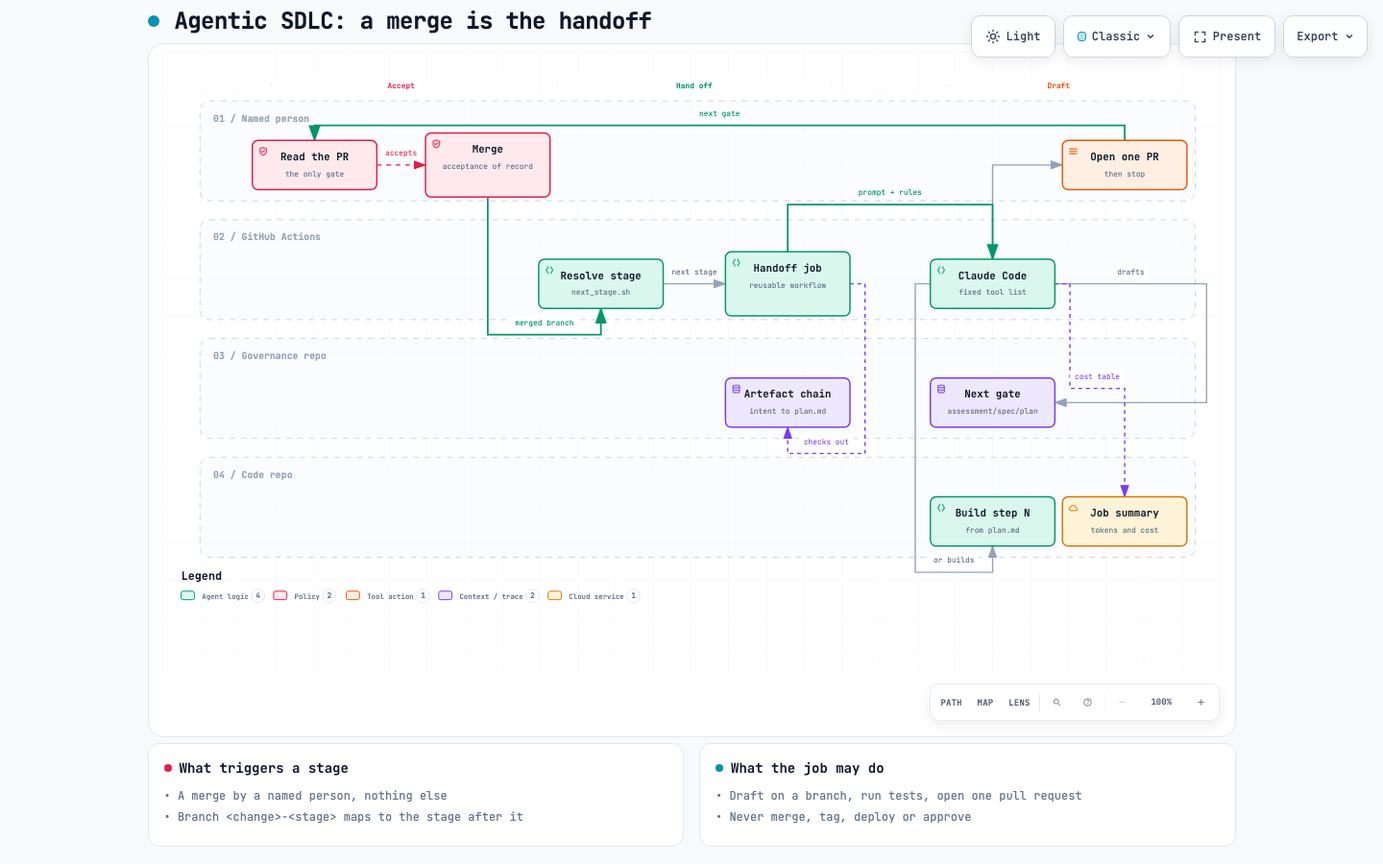
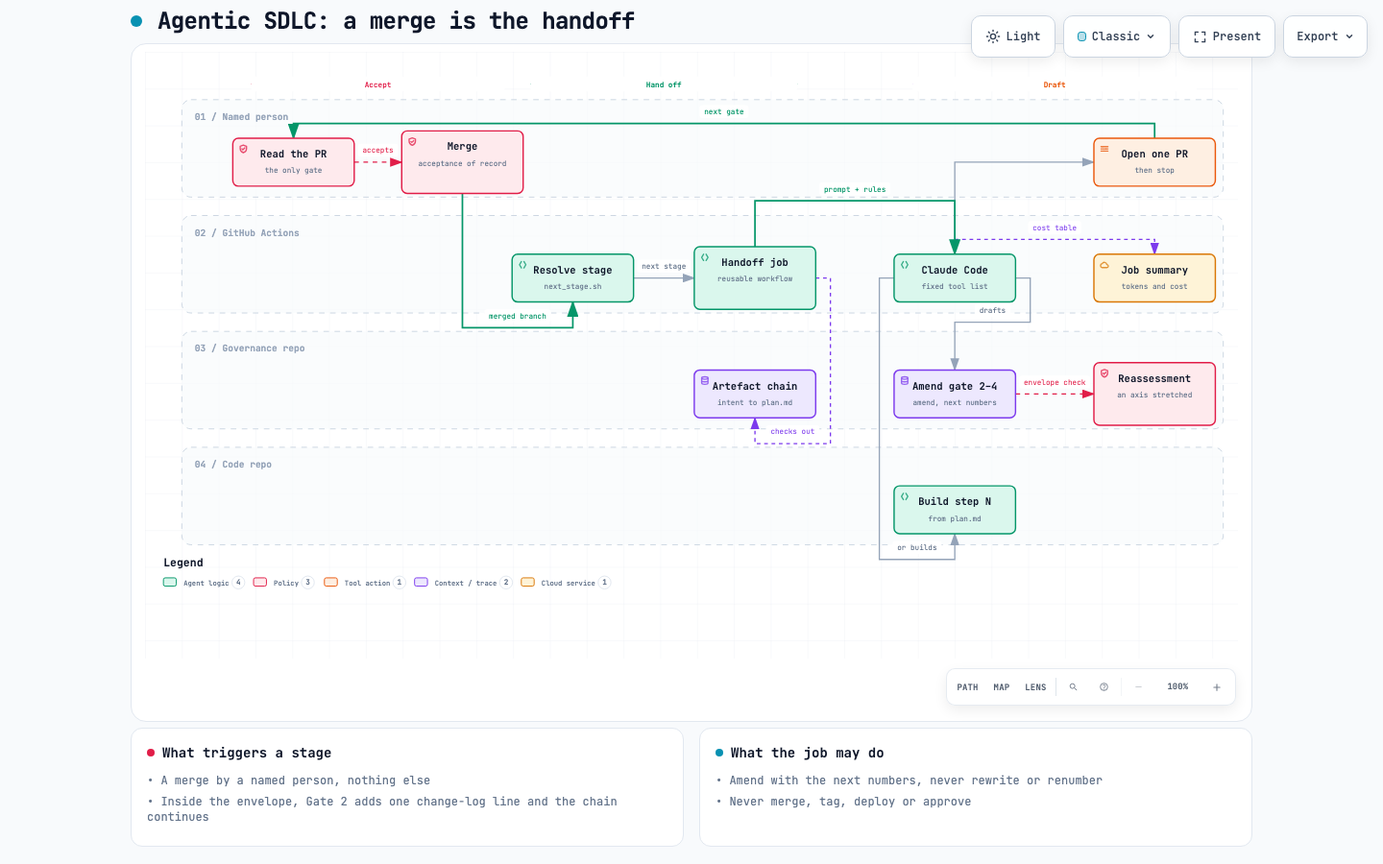
Diagram: amend not rewrite, and the reassessment branch at Gate 2
Claude-Session: https://claude.ai/code/session_01CV7KfttZPYsNyyskFMYeU7

diff --git a/docs/handoff.html b/docs/handoff.html
@@ -5004,7 +5004,7 @@
     <!-- Main Diagram -->
     <div class="diagram-container" data-detail-level="read"
          data-preset-badge-editorial-plate="ARCHIFY / PLATE 04">
-      <svg viewBox="0 0 1123 660" role="img" lang="en" aria-labelledby="archify-diagram-title archify-diagram-description" data-preset="classic" data-quality-profile="showcase">
+      <svg viewBox="0 0 1188 660" role="img" lang="en" aria-labelledby="archify-diagram-title archify-diagram-description" data-preset="classic" data-quality-profile="showcase">
         <title id="archify-diagram-title">Agentic SDLC: a merge is the handoff</title>
         <desc id="archify-diagram-description">A workflow diagram generated by Archify.</desc>
         <!-- Definitions -->
@@ -5030,16 +5030,16 @@
         <rect width="100%" height="100%" fill="url(#grid)" />
 
         <!-- Swimlanes -->
-        <rect data-graph-role="structural-frame" data-composition-frame-kind="lane" data-composition-frame-id="lane-0" x="40" y="52" width="1055" height="106" rx="10" class="c-lane" stroke-width="1"/>
+        <rect data-graph-role="structural-frame" data-composition-frame-kind="lane" data-composition-frame-id="lane-0" x="40" y="52" width="1132" height="106" rx="10" class="c-lane" stroke-width="1"/>
         <text x="54" y="74" class="t-dim" font-size="10" font-weight="600">01 / Named person</text>
 
-        <rect data-graph-role="structural-frame" data-composition-frame-kind="lane" data-composition-frame-id="lane-1" x="40" y="178" width="1055" height="106" rx="10" class="c-lane" stroke-width="1"/>
+        <rect data-graph-role="structural-frame" data-composition-frame-kind="lane" data-composition-frame-id="lane-1" x="40" y="178" width="1132" height="106" rx="10" class="c-lane" stroke-width="1"/>
         <text x="54" y="200" class="t-dim" font-size="10" font-weight="600">02 / GitHub Actions</text>
 
-        <rect data-graph-role="structural-frame" data-composition-frame-kind="lane" data-composition-frame-id="lane-2" x="40" y="304" width="1055" height="106" rx="10" class="c-lane" stroke-width="1"/>
+        <rect data-graph-role="structural-frame" data-composition-frame-kind="lane" data-composition-frame-id="lane-2" x="40" y="304" width="1132" height="106" rx="10" class="c-lane" stroke-width="1"/>
         <text x="54" y="326" class="t-dim" font-size="10" font-weight="600">03 / Governance repo</text>
 
-        <rect data-graph-role="structural-frame" data-composition-frame-kind="lane" data-composition-frame-id="lane-3" x="40" y="430" width="1055" height="106" rx="10" class="c-lane" stroke-width="1"/>
+        <rect data-graph-role="structural-frame" data-composition-frame-kind="lane" data-composition-frame-id="lane-3" x="40" y="430" width="1132" height="106" rx="10" class="c-lane" stroke-width="1"/>
         <text x="54" y="452" class="t-dim" font-size="10" font-weight="600">04 / Code repo</text>
 
         <!-- Phase headers -->
@@ -5049,24 +5049,25 @@
         <line x1="419" y1="35" x2="709" y2="35" class="a-emphasis" stroke-width="1.1"/>
         <rect x="419" y="27" width="290" height="16" rx="4" class="c-mask"/>
         <text x="564" y="39" class="t-backend" font-size="8" font-weight="600" text-anchor="middle">Hand off</text>
-        <line x1="834.1999999999998" y1="35" x2="1066.1999999999998" y2="35" class="a-dashed" stroke-width="1.1"/>
-        <rect x="834.1999999999998" y="27" width="231.9999999999999" height="16" rx="4" class="c-mask"/>
-        <text x="950.1999999999998" y="39" class="t-messagebus" font-size="8" font-weight="600" text-anchor="middle">Draft</text>
+        <line x1="834.1999999999998" y1="35" x2="1143.4" y2="35" class="a-dashed" stroke-width="1.1"/>
+        <rect x="834.1999999999998" y="27" width="309.20000000000016" height="16" rx="4" class="c-mask"/>
+        <text x="988.8" y="39" class="t-messagebus" font-size="8" font-weight="600" text-anchor="middle">Draft</text>
 
         <!-- Workflow groups -->
 
 
         <!-- Edge paths -->
         <path data-edge-from="claude" data-edge-to="build" data-edge-label="or builds" data-edge-key="0" data-edge-id="claude-build" data-composition-points="814.1999999999999,246;798.1999999999999,246;798.1999999999999,552;880.1999999999999,552;880.1999999999999,524" d="M 814.1999999999999 246 L 798.1999999999999 246 L 798.1999999999999 552 L 880.1999999999999 552 L 880.1999999999999 524" class="a-default" stroke-width="1.4" marker-end="url(#arrowhead)"/>
-        <path data-edge-from="claude" data-edge-to="gate" data-edge-label="drafts" data-edge-key="1" data-edge-id="claude-gate" data-composition-points="946.1999999999999,246;1107,246;1107,372;946.1999999999999,372" d="M 946.1999999999999 246 L 1107 246 L 1107 372 L 946.1999999999999 372" class="a-default" stroke-width="1.4" marker-end="url(#arrowhead)"/>
-        <path data-edge-from="claude" data-edge-to="pr" data-edge-key="2" data-edge-id="claude-pr" data-composition-points="880.1999999999999,220;880.1999999999999,120;954.1999999999999,120" d="M 880.1999999999999 220 L 880.1999999999999 120 L 954.1999999999999 120" class="a-default" stroke-width="1.4" marker-end="url(#arrowhead)"/>
-        <path data-edge-from="claude" data-edge-to="summary" data-edge-label="cost table" data-edge-key="3" data-edge-id="claude-summary" data-composition-points="946.1999999999999,246;962.1999999999999,246;962.1999999999999,357;1020.1999999999999,357;1020.1999999999999,472" d="M 946.1999999999999 246 L 962.1999999999999 246 L 962.1999999999999 357 L 1020.1999999999999 357 L 1020.1999999999999 472" class="a-dashed" stroke-width="1.4" marker-end="url(#arrowhead-dashed)"/>
-        <path data-edge-from="handoff" data-edge-to="chain" data-edge-label="checks out" data-edge-key="4" data-edge-id="handoff-chain" data-composition-points="729,246;745,246;745,426;663,426;663,398" d="M 729 246 L 745 246 L 745 426 L 663 426 L 663 398" class="a-dashed" stroke-width="1.4" marker-end="url(#arrowhead-dashed)"/>
-        <path data-edge-from="handoff" data-edge-to="claude" data-edge-label="prompt + rules" data-edge-key="5" data-edge-id="handoff-claude" data-composition-points="663,212;663,162;880.1999999999999,162;880.1999999999999,220" d="M 663 212 L 663 162 L 880.1999999999999 162 L 880.1999999999999 220" class="a-emphasis" stroke-width="1.8" marker-end="url(#arrowhead-emphasis)"/>
-        <path data-edge-from="merge" data-edge-to="resolve" data-edge-label="merged branch" data-edge-key="6" data-edge-id="merge-resolve" data-composition-points="345,154;345,300;465,300;465,272" d="M 345 154 L 345 300 L 465 300 L 465 272" class="a-emphasis" stroke-width="1.8" marker-end="url(#arrowhead-emphasis)"/>
-        <path data-edge-from="pr" data-edge-to="read" data-edge-label="next gate" data-edge-key="7" data-edge-id="pr-read" data-composition-points="1020.1999999999999,94;1020.1999999999999,78;161.4,78;161.4,94" d="M 1020.1999999999999 94 L 1020.1999999999999 78 L 161.4 78 L 161.4 94" class="a-emphasis" stroke-width="1.8" marker-end="url(#arrowhead-emphasis)"/>
-        <path data-edge-from="read" data-edge-to="merge" data-edge-label="accepts" data-edge-key="8" data-edge-id="read-merge" data-composition-points="227.4,120;279,120" d="M 227.4 120 L 279 120" class="a-security" stroke-width="1.4" marker-end="url(#arrowhead-security)"/>
-        <path data-edge-from="resolve" data-edge-to="handoff" data-edge-label="next stage" data-edge-key="9" data-edge-id="resolve-handoff" data-composition-points="531,246;597,246" d="M 531 246 L 597 246" class="a-default" stroke-width="1.4" marker-end="url(#arrowhead)"/>
+        <path data-edge-from="claude" data-edge-to="gate" data-edge-label="drafts" data-edge-key="1" data-edge-id="claude-gate" data-composition-points="946.1999999999999,246;962.1999999999999,246;962.1999999999999,294;880.1999999999999,294;880.1999999999999,346" d="M 946.1999999999999 246 L 962.1999999999999 246 L 962.1999999999999 294 L 880.1999999999999 294 L 880.1999999999999 346" class="a-default" stroke-width="1.4" marker-end="url(#arrowhead)"/>
+        <path data-edge-from="claude" data-edge-to="pr" data-edge-key="2" data-edge-id="claude-pr" data-composition-points="880.1999999999999,220;880.1999999999999,120;1031.4,120" d="M 880.1999999999999 220 L 880.1999999999999 120 L 1031.4 120" class="a-default" stroke-width="1.4" marker-end="url(#arrowhead)"/>
+        <path data-edge-from="claude" data-edge-to="summary" data-edge-label="cost table" data-edge-key="3" data-edge-id="claude-summary" data-composition-points="880.1999999999999,220;880.1999999999999,204;1097.4,204;1097.4,220" d="M 880.1999999999999 220 L 880.1999999999999 204 L 1097.4 204 L 1097.4 220" class="a-dashed" stroke-width="1.4" marker-end="url(#arrowhead-dashed)"/>
+        <path data-edge-from="gate" data-edge-to="reassess" data-edge-label="envelope check" data-edge-key="4" data-edge-id="gate-reassess" data-composition-points="946.1999999999999,372;1031.4,372" d="M 946.1999999999999 372 L 1031.4 372" class="a-security" stroke-width="1.4" marker-end="url(#arrowhead-security)"/>
+        <path data-edge-from="handoff" data-edge-to="chain" data-edge-label="checks out" data-edge-key="5" data-edge-id="handoff-chain" data-composition-points="729,246;745,246;745,426;663,426;663,398" d="M 729 246 L 745 246 L 745 426 L 663 426 L 663 398" class="a-dashed" stroke-width="1.4" marker-end="url(#arrowhead-dashed)"/>
+        <path data-edge-from="handoff" data-edge-to="claude" data-edge-label="prompt + rules" data-edge-key="6" data-edge-id="handoff-claude" data-composition-points="663,212;663,162;880.1999999999999,162;880.1999999999999,220" d="M 663 212 L 663 162 L 880.1999999999999 162 L 880.1999999999999 220" class="a-emphasis" stroke-width="1.8" marker-end="url(#arrowhead-emphasis)"/>
+        <path data-edge-from="merge" data-edge-to="resolve" data-edge-label="merged branch" data-edge-key="7" data-edge-id="merge-resolve" data-composition-points="345,154;345,300;465,300;465,272" d="M 345 154 L 345 300 L 465 300 L 465 272" class="a-emphasis" stroke-width="1.8" marker-end="url(#arrowhead-emphasis)"/>
+        <path data-edge-from="pr" data-edge-to="read" data-edge-label="next gate" data-edge-key="8" data-edge-id="pr-read" data-composition-points="1097.4,94;1097.4,78;161.4,78;161.4,94" d="M 1097.4 94 L 1097.4 78 L 161.4 78 L 161.4 94" class="a-emphasis" stroke-width="1.8" marker-end="url(#arrowhead-emphasis)"/>
+        <path data-edge-from="read" data-edge-to="merge" data-edge-label="accepts" data-edge-key="9" data-edge-id="read-merge" data-composition-points="227.4,120;279,120" d="M 227.4 120 L 279 120" class="a-security" stroke-width="1.4" marker-end="url(#arrowhead-security)"/>
+        <path data-edge-from="resolve" data-edge-to="handoff" data-edge-label="next stage" data-edge-key="10" data-edge-id="resolve-handoff" data-composition-points="531,246;597,246" d="M 531 246 L 597 246" class="a-default" stroke-width="1.4" marker-end="url(#arrowhead)"/>
 
         <!-- Nodes -->
         <g id="node-read" data-node-id="read" data-node-label="Read the PR" tabindex="0" role="button" aria-label="Focus Read the PR, the only gate, Named person › Accept" aria-pressed="false" data-node-kind="security" data-node-sublabel="the only gate" data-node-context="Named person › Accept">
@@ -5096,16 +5097,16 @@
 
         <g id="node-pr" data-node-id="pr" data-node-label="Open one PR" tabindex="0" role="button" aria-label="Focus Open one PR, then stop, Named person › Draft" aria-pressed="false" data-node-kind="messagebus" data-node-sublabel="then stop" data-node-context="Named person › Draft">
           <title>Open one PR · then stop · Named person › Draft</title>
-          <rect x="954.1999999999999" y="94" width="132" height="52" rx="6" class="c-mask"/>
-          <rect x="954.1999999999999" y="94" width="132" height="52" rx="6" class="c-messagebus" stroke-width="1.5"/>
-          <g aria-hidden="true" data-semantic-sigil="messagebus" class="semantic-sigil s-messagebus" transform="translate(960.1999999999999 100) scale(0.6875)">
+          <rect x="1031.4" y="94" width="132" height="52" rx="6" class="c-mask"/>
+          <rect x="1031.4" y="94" width="132" height="52" rx="6" class="c-messagebus" stroke-width="1.5"/>
+          <g aria-hidden="true" data-semantic-sigil="messagebus" class="semantic-sigil s-messagebus" transform="translate(1037.4 100) scale(0.6875)">
             <path d="M2.5 4.5h11M2.5 8h11M2.5 11.5h11"/>
             <circle cx="5" cy="4.5" r="1" class="sigil-fill"/>
             <circle cx="10.5" cy="8" r="1" class="sigil-fill"/>
             <circle cx="7" cy="11.5" r="1" class="sigil-fill"/>
           </g>
-          <text data-node-label="" data-detail-anchor="" x="1020.1999999999999" y="115" class="t-primary" font-size="11" font-weight="600" text-anchor="middle">Open one PR</text>
-          <text data-detail="context" x="1020.1999999999999" y="132" class="t-muted" font-size="8" text-anchor="middle">then stop</text>
+          <text data-node-label="" data-detail-anchor="" x="1097.4" y="115" class="t-primary" font-size="11" font-weight="600" text-anchor="middle">Open one PR</text>
+          <text data-detail="context" x="1097.4" y="132" class="t-muted" font-size="8" text-anchor="middle">then stop</text>
         </g>
 
         <g id="node-resolve" data-node-id="resolve" data-node-label="Resolve stage" tabindex="0" role="button" aria-label="Focus Resolve stage, next_stage.sh, GitHub Actions › Hand off" aria-pressed="false" data-node-kind="backend" data-node-sublabel="next_stage.sh" data-node-context="GitHub Actions › Hand off">
@@ -5142,6 +5143,17 @@
           <text data-detail="context" x="880.1999999999999" y="258" class="t-muted" font-size="8" text-anchor="middle">fixed tool list</text>
         </g>
 
+        <g id="node-summary" data-node-id="summary" data-node-label="Job summary" tabindex="0" role="button" aria-label="Focus Job summary, tokens and cost, GitHub Actions › Draft" aria-pressed="false" data-node-kind="cloud" data-node-sublabel="tokens and cost" data-node-context="GitHub Actions › Draft">
+          <title>Job summary · tokens and cost · GitHub Actions › Draft</title>
+          <rect x="1031.4" y="220" width="132" height="52" rx="6" class="c-mask"/>
+          <rect x="1031.4" y="220" width="132" height="52" rx="6" class="c-cloud" stroke-width="1.5"/>
+          <g aria-hidden="true" data-semantic-sigil="cloud" class="semantic-sigil s-cloud" transform="translate(1037.4 226) scale(0.6875)">
+            <path d="M4.3 12.5h7.3a2.4 2.4 0 0 0 .2-4.8 4 4 0 0 0-7.5-1.3A3.1 3.1 0 0 0 4.3 12.5Z"/>
+          </g>
+          <text data-node-label="" data-detail-anchor="" x="1097.4" y="241" class="t-primary" font-size="11" font-weight="600" text-anchor="middle">Job summary</text>
+          <text data-detail="context" x="1097.4" y="258" class="t-muted" font-size="8" text-anchor="middle">tokens and cost</text>
+        </g>
+
         <g id="node-chain" data-node-id="chain" data-node-label="Artefact chain" tabindex="0" role="button" aria-label="Focus Artefact chain, intent to plan.md, Governance repo › Hand off" aria-pressed="false" data-node-kind="database" data-node-sublabel="intent to plan.md" data-node-context="Governance repo › Hand off">
           <title>Artefact chain · intent to plan.md · Governance repo › Hand off</title>
           <rect x="597" y="346" width="132" height="52" rx="6" class="c-mask"/>
@@ -5154,16 +5166,29 @@
           <text data-detail="context" x="663" y="384" class="t-muted" font-size="8" text-anchor="middle">intent to plan.md</text>
         </g>
 
-        <g id="node-gate" data-node-id="gate" data-node-label="Next gate" tabindex="0" role="button" aria-label="Focus Next gate, assessment/spec/plan, Governance repo › Draft" aria-pressed="false" data-node-kind="database" data-node-sublabel="assessment/spec/plan" data-node-context="Governance repo › Draft">
-          <title>Next gate · assessment/spec/plan · Governance repo › Draft</title>
+        <g id="node-gate" data-node-id="gate" data-node-label="Amend gate 2–4" tabindex="0" role="button" aria-label="Focus Amend gate 2–4, amend, next numbers, Governance repo › Draft" aria-pressed="false" data-node-kind="database" data-node-sublabel="amend, next numbers" data-node-context="Governance repo › Draft">
+          <title>Amend gate 2–4 · amend, next numbers · Governance repo › Draft</title>
           <rect x="814.1999999999999" y="346" width="132" height="52" rx="6" class="c-mask"/>
           <rect x="814.1999999999999" y="346" width="132" height="52" rx="6" class="c-database" stroke-width="1.5"/>
           <g aria-hidden="true" data-semantic-sigil="database" class="semantic-sigil s-database" transform="translate(820.1999999999999 352) scale(0.6875)">
             <ellipse cx="8" cy="4" rx="5" ry="2"/>
             <path d="M3 4v8c0 1.1 2.2 2 5 2s5-.9 5-2V4M3 8c0 1.1 2.2 2 5 2s5-.9 5-2"/>
           </g>
-          <text data-node-label="" data-detail-anchor="" x="880.1999999999999" y="367" class="t-primary" font-size="11" font-weight="600" text-anchor="middle">Next gate</text>
-          <text data-detail="context" x="880.1999999999999" y="384" class="t-muted" font-size="8" text-anchor="middle">assessment/spec/plan</text>
+          <text data-node-label="" data-detail-anchor="" x="880.1999999999999" y="367" class="t-primary" font-size="11" font-weight="600" text-anchor="middle">Amend gate 2–4</text>
+          <text data-detail="context" x="880.1999999999999" y="384" class="t-muted" font-size="8" text-anchor="middle">amend, next numbers</text>
+        </g>
+
+        <g id="node-reassess" data-node-id="reassess" data-node-label="Reassessment" tabindex="0" role="button" aria-label="Focus Reassessment, an axis stretched, Governance repo › Draft" aria-pressed="false" data-node-kind="security" data-node-sublabel="an axis stretched" data-node-tag="Gate 2 again" data-node-context="Governance repo › Draft">
+          <title>Reassessment · an axis stretched · Governance repo › Draft · Gate 2 again</title>
+          <rect x="1031.4" y="338" width="132" height="68" rx="6" class="c-mask"/>
+          <rect x="1031.4" y="338" width="132" height="68" rx="6" class="c-security" stroke-width="1.5"/>
+          <g aria-hidden="true" data-semantic-sigil="security" class="semantic-sigil s-security" transform="translate(1037.4 344) scale(0.6875)">
+            <path d="M8 2.2 13 4v3.5c0 3.1-1.8 5.4-5 6.5-3.2-1.1-5-3.4-5-6.5V4Z"/>
+            <path d="m5.8 8 1.5 1.5 3-3"/>
+          </g>
+          <text data-node-label="" data-detail-anchor="" x="1097.4" y="359" class="t-primary" font-size="11" font-weight="600" text-anchor="middle">Reassessment</text>
+          <text data-detail="context" x="1097.4" y="376" class="t-muted" font-size="8" text-anchor="middle">an axis stretched</text>
+        <text data-detail="fine" x="1097.4" y="394" class="t-security" font-size="7" text-anchor="middle">Gate 2 again</text>
         </g>
 
         <g id="node-build" data-node-id="build" data-node-label="Build step N" tabindex="0" role="button" aria-label="Focus Build step N, from plan.md, Code repo › Draft" aria-pressed="false" data-node-kind="backend" data-node-sublabel="from plan.md" data-node-context="Code repo › Draft">
@@ -5177,52 +5202,45 @@
           <text data-detail="context" x="880.1999999999999" y="510" class="t-muted" font-size="8" text-anchor="middle">from plan.md</text>
         </g>
 
-        <g id="node-summary" data-node-id="summary" data-node-label="Job summary" tabindex="0" role="button" aria-label="Focus Job summary, tokens and cost, Code repo › Draft" aria-pressed="false" data-node-kind="cloud" data-node-sublabel="tokens and cost" data-node-context="Code repo › Draft">
-          <title>Job summary · tokens and cost · Code repo › Draft</title>
-          <rect x="954.1999999999999" y="472" width="132" height="52" rx="6" class="c-mask"/>
-          <rect x="954.1999999999999" y="472" width="132" height="52" rx="6" class="c-cloud" stroke-width="1.5"/>
-          <g aria-hidden="true" data-semantic-sigil="cloud" class="semantic-sigil s-cloud" transform="translate(960.1999999999999 478) scale(0.6875)">
-            <path d="M4.3 12.5h7.3a2.4 2.4 0 0 0 .2-4.8 4 4 0 0 0-7.5-1.3A3.1 3.1 0 0 0 4.3 12.5Z"/>
-          </g>
-          <text data-node-label="" data-detail-anchor="" x="1020.1999999999999" y="493" class="t-primary" font-size="11" font-weight="600" text-anchor="middle">Job summary</text>
-          <text data-detail="context" x="1020.1999999999999" y="510" class="t-muted" font-size="8" text-anchor="middle">tokens and cost</text>
-        </g>
-
         <!-- Edge labels -->
         <g data-detail="context" data-edge-from="claude" data-edge-to="build" data-edge-label="or builds" data-edge-key="0" data-edge-id="claude-build">
           <rect x="812.5999999999999" y="532" width="53.199999999999996" height="14" rx="3" class="c-mask"/>
           <text x="839.1999999999999" y="542" class="t-muted" font-size="8" text-anchor="middle">or builds</text>
         </g>
         <g data-detail="context" data-edge-from="claude" data-edge-to="gate" data-edge-label="drafts" data-edge-key="1" data-edge-id="claude-gate">
-          <rect x="1007.1999999999999" y="226" width="38.8" height="14" rx="3" class="c-mask"/>
-          <text x="1026.6" y="236" class="t-muted" font-size="8" text-anchor="middle">drafts</text>
+          <rect x="901.8" y="274" width="38.8" height="14" rx="3" class="c-mask"/>
+          <text x="921.1999999999999" y="284" class="t-muted" font-size="8" text-anchor="middle">drafts</text>
         </g>
 
         <g data-detail="context" data-edge-from="claude" data-edge-to="summary" data-edge-label="cost table" data-edge-key="3" data-edge-id="claude-summary">
-          <rect x="962.1999999999999" y="337" width="58" height="14" rx="3" class="c-mask"/>
-          <text x="991.1999999999999" y="347" class="t-database" font-size="8" text-anchor="middle">cost table</text>
+          <rect x="959.8" y="184" width="58" height="14" rx="3" class="c-mask"/>
+          <text x="988.8" y="194" class="t-database" font-size="8" text-anchor="middle">cost table</text>
         </g>
-        <g data-detail="context" data-edge-from="handoff" data-edge-to="chain" data-edge-label="checks out" data-edge-key="4" data-edge-id="handoff-chain">
+        <g data-detail="context" data-edge-from="gate" data-edge-to="reassess" data-edge-label="envelope check" data-edge-key="4" data-edge-id="gate-reassess">
+          <rect x="950.1999999999999" y="352" width="77.2" height="14" rx="3" class="c-mask"/>
+          <text x="988.8" y="362" class="t-security" font-size="8" text-anchor="middle">envelope check</text>
+        </g>
+        <g data-detail="context" data-edge-from="handoff" data-edge-to="chain" data-edge-label="checks out" data-edge-key="5" data-edge-id="handoff-chain">
           <rect x="675" y="406" width="58" height="14" rx="3" class="c-mask"/>
           <text x="704" y="416" class="t-database" font-size="8" text-anchor="middle">checks out</text>
         </g>
-        <g data-detail="context" data-edge-from="handoff" data-edge-to="claude" data-edge-label="prompt + rules" data-edge-key="5" data-edge-id="handoff-claude">
+        <g data-detail="context" data-edge-from="handoff" data-edge-to="claude" data-edge-label="prompt + rules" data-edge-key="6" data-edge-id="handoff-claude">
           <rect x="732.9999999999999" y="142" width="77.2" height="14" rx="3" class="c-mask"/>
           <text x="771.5999999999999" y="152" class="t-backend" font-size="8" text-anchor="middle">prompt + rules</text>
         </g>
-        <g data-detail="context" data-edge-from="merge" data-edge-to="resolve" data-edge-label="merged branch" data-edge-key="6" data-edge-id="merge-resolve">
+        <g data-detail="context" data-edge-from="merge" data-edge-to="resolve" data-edge-label="merged branch" data-edge-key="7" data-edge-id="merge-resolve">
           <rect x="368.8" y="280" width="72.4" height="14" rx="3" class="c-mask"/>
           <text x="405" y="290" class="t-backend" font-size="8" text-anchor="middle">merged branch</text>
         </g>
-        <g data-detail="context" data-edge-from="pr" data-edge-to="read" data-edge-label="next gate" data-edge-key="7" data-edge-id="pr-read">
-          <rect x="564.1999999999999" y="58" width="53.199999999999996" height="14" rx="3" class="c-mask"/>
-          <text x="590.8" y="68" class="t-backend" font-size="8" text-anchor="middle">next gate</text>
+        <g data-detail="context" data-edge-from="pr" data-edge-to="read" data-edge-label="next gate" data-edge-key="8" data-edge-id="pr-read">
+          <rect x="602.8000000000001" y="58" width="53.199999999999996" height="14" rx="3" class="c-mask"/>
+          <text x="629.4000000000001" y="68" class="t-backend" font-size="8" text-anchor="middle">next gate</text>
         </g>
-        <g data-detail="context" data-edge-from="read" data-edge-to="merge" data-edge-label="accepts" data-edge-key="8" data-edge-id="read-merge">
+        <g data-detail="context" data-edge-from="read" data-edge-to="merge" data-edge-label="accepts" data-edge-key="9" data-edge-id="read-merge">
           <rect x="231.39999999999998" y="100" width="43.6" height="14" rx="3" class="c-mask"/>
           <text x="253.2" y="110" class="t-security" font-size="8" text-anchor="middle">accepts</text>
         </g>
-        <g data-detail="context" data-edge-from="resolve" data-edge-to="handoff" data-edge-label="next stage" data-edge-key="9" data-edge-id="resolve-handoff">
+        <g data-detail="context" data-edge-from="resolve" data-edge-to="handoff" data-edge-label="next stage" data-edge-key="10" data-edge-id="resolve-handoff">
           <rect x="535" y="226" width="58" height="14" rx="3" class="c-mask"/>
           <text x="564" y="236" class="t-muted" font-size="8" text-anchor="middle">next stage</text>
         </g>
@@ -5444,7 +5462,7 @@
         </div>
         <ul>
           <li>&bull; A merge by a named person, nothing else</li>
-          <li>&bull; Branch &lt;change&gt;-&lt;stage&gt; maps to the stage after it</li>
+          <li>&bull; Inside the envelope, Gate 2 adds one change-log line and the chain continues</li>
         </ul>
       </div>
 
@@ -5454,7 +5472,7 @@
           <h3>What the job may do</h3>
         </div>
         <ul>
-          <li>&bull; Draft on a branch, run tests, open one pull request</li>
+          <li>&bull; Amend with the next numbers, never rewrite or renumber</li>
           <li>&bull; Never merge, tag, deploy or approve</li>
         </ul>
       </div>

diff --git a/README.md b/README.md
@@ -20,7 +20,7 @@ The agentic SDLC runs as a chain of seven gates in which an agent drafts each ar
 
 ## The chain
 
-![A merge is the handoff: read the PR, merge, resolve the next stage, run the handoff job, Claude Code drafts, one PR opens, back to the person](docs/handoff.png)
+![A merge is the handoff: read the PR, merge, resolve the next stage, run the handoff job, Claude Code amends the next gate or builds a step, a stretched axis becomes a reassessment, one PR opens, back to the person](docs/handoff.png)
 
 Interactive version: [docs/handoff.html](docs/handoff.html), drawn from [docs/handoff.workflow.json](docs/handoff.workflow.json) with [archify](https://github.com/tt-a1i/archify).
 
